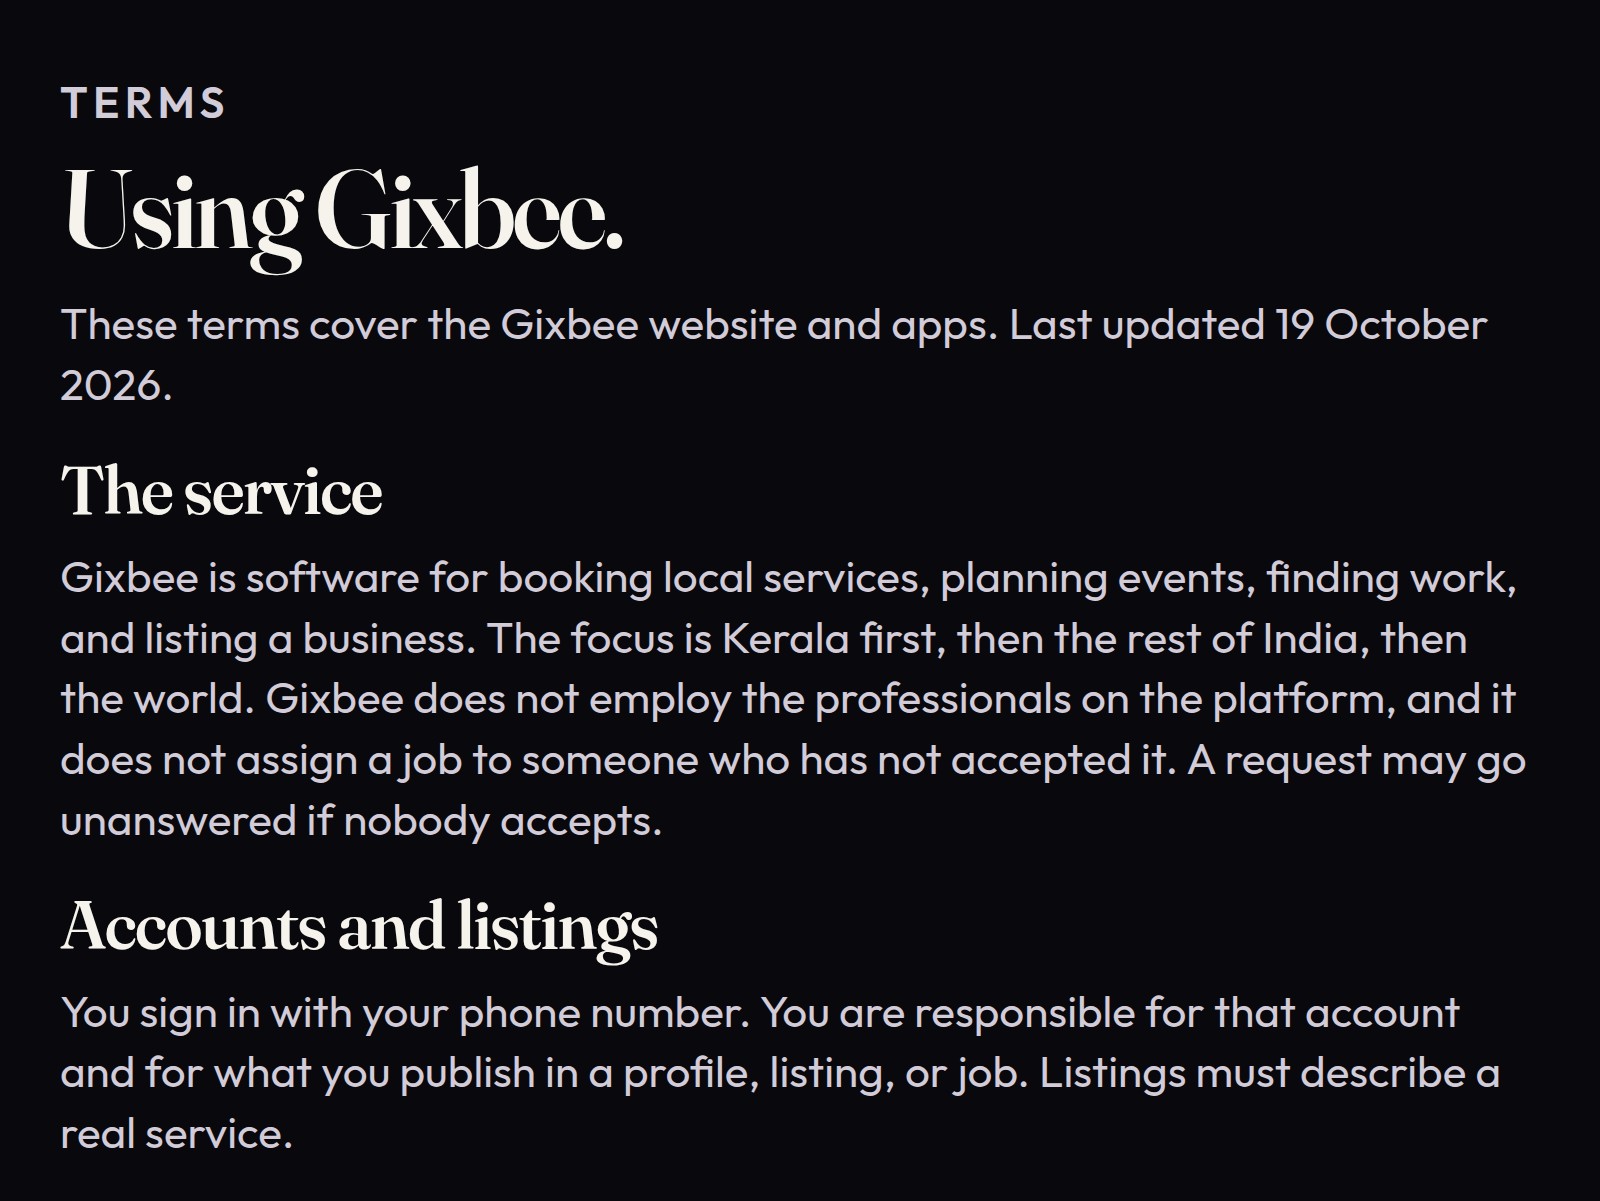
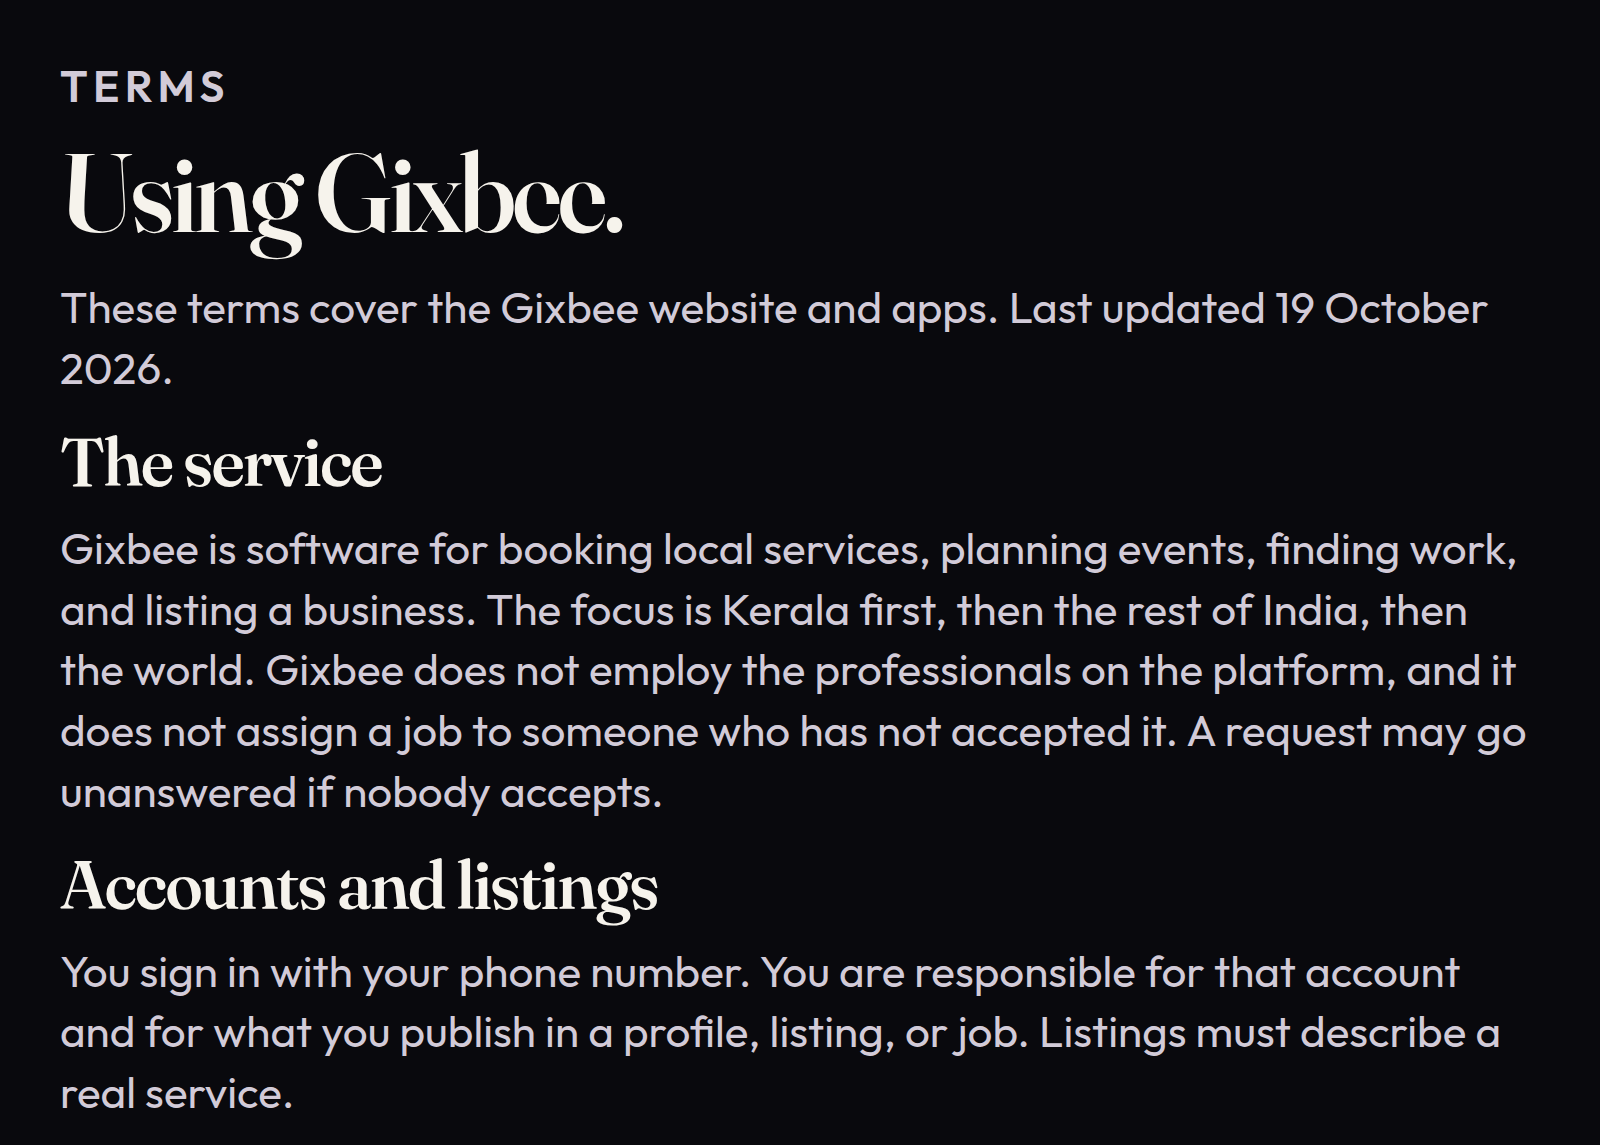
Close the empty space under platform, privacy, and terms.
On a phone those sections now sit against the footer, and the pictures are cropped to the text.

diff --git a/site/styles.css b/site/styles.css
@@ -144,7 +144,7 @@ dd { margin: 0; font-size: 15px; }
 section { padding: 64px 0; }
 .section-head { max-width: 40rem; margin-bottom: 28px; }
 
-.grid-4, .grid-3, .grid-2 { display: grid; gap: 16px; }
+.grid-4, .grid-3, .grid-2 { display: grid; gap: 16px; align-items: start; }
 .grid-4 { grid-template-columns: repeat(4, 1fr); }
 .grid-3 { grid-template-columns: repeat(3, 1fr); }
 .grid-2 { grid-template-columns: 1fr 1fr; }
@@ -153,7 +153,7 @@ section { padding: 64px 0; }
   border: 1px solid var(--line);
   padding: 22px;
   background: transparent;
-  min-height: 100%;
+  height: auto;
 }
 .card .num {
   font-family: var(--serif);
@@ -260,9 +260,12 @@ footer a { color: var(--muted); }
 }
 @media (max-width: 900px) {
   .hero-grid, .grid-4, .grid-3, .grid-2, .contact-band { grid-template-columns: 1fr; display: grid; }
-  .hero { padding: 40px 0 8px; }
-  section { padding: 40px 0; }
-  .contact-band { align-items: start; }
+  .hero { padding: 28px 0 0; }
+  section { padding: 12px 0 8px; }
+  .section-head { margin-bottom: 16px; }
+  .contact-band { align-items: start; padding-top: 16px; }
+  .prose h2 { margin-top: 16px; }
+  footer { padding: 12px 0 20px; }
 }
 @media (max-width: 700px) {
   .table-wrap { overflow: visible; border-bottom: 0; }
@@ -303,7 +306,7 @@ body.capture h2 { font-size: 76px; line-height: 1.05; margin-bottom: 20px; }
 body.capture h3 { font-size: 56px; }
 body.capture p, body.capture li { font-size: 48px; }
 body.capture .lede { font-size: 48px; max-width: none; }
-body.capture .hero { padding: 72px 0 24px; }
+body.capture .hero { padding: 56px 0 8px; }
 body.capture .hero-grid,
 body.capture .grid-4,
 body.capture .grid-3,
@@ -314,7 +317,7 @@ body.capture .contact-band {
   gap: 28px;
 }
 body.capture .hero-grid { align-items: stretch; gap: 40px; }
-body.capture section { padding: 64px 0; }
+body.capture section { padding: 28px 0 12px; }
 body.capture .section-head { max-width: none; margin-bottom: 36px; }
 body.capture .card { padding: 36px; }
 body.capture .card .num { font-size: 44px; margin-bottom: 16px; }
@@ -348,8 +351,8 @@ body.capture tr { border-top: 1px solid var(--line); padding: 28px 0 8px; }
 body.capture td, body.capture th { border-top: 0; padding: 0 0 12px; font-size: 44px; }
 body.capture td:first-child { font-size: 48px; padding-bottom: 6px; }
 body.capture .prose { max-width: none; }
-body.capture .prose h2 { font-size: 68px; margin-top: 40px; }
+body.capture .prose h2 { font-size: 68px; margin-top: 28px; }
 body.capture .prose h2:first-child { margin-top: 0; }
 body.capture .prose h3 { font-size: 40px; margin-top: 28px; }
-body.capture footer { font-size: 34px; padding: 36px 0 56px; }
+body.capture footer { font-size: 34px; padding: 16px 0 28px; }
 body.capture footer .wrap { flex-direction: column; align-items: flex-start; gap: 12px; }
